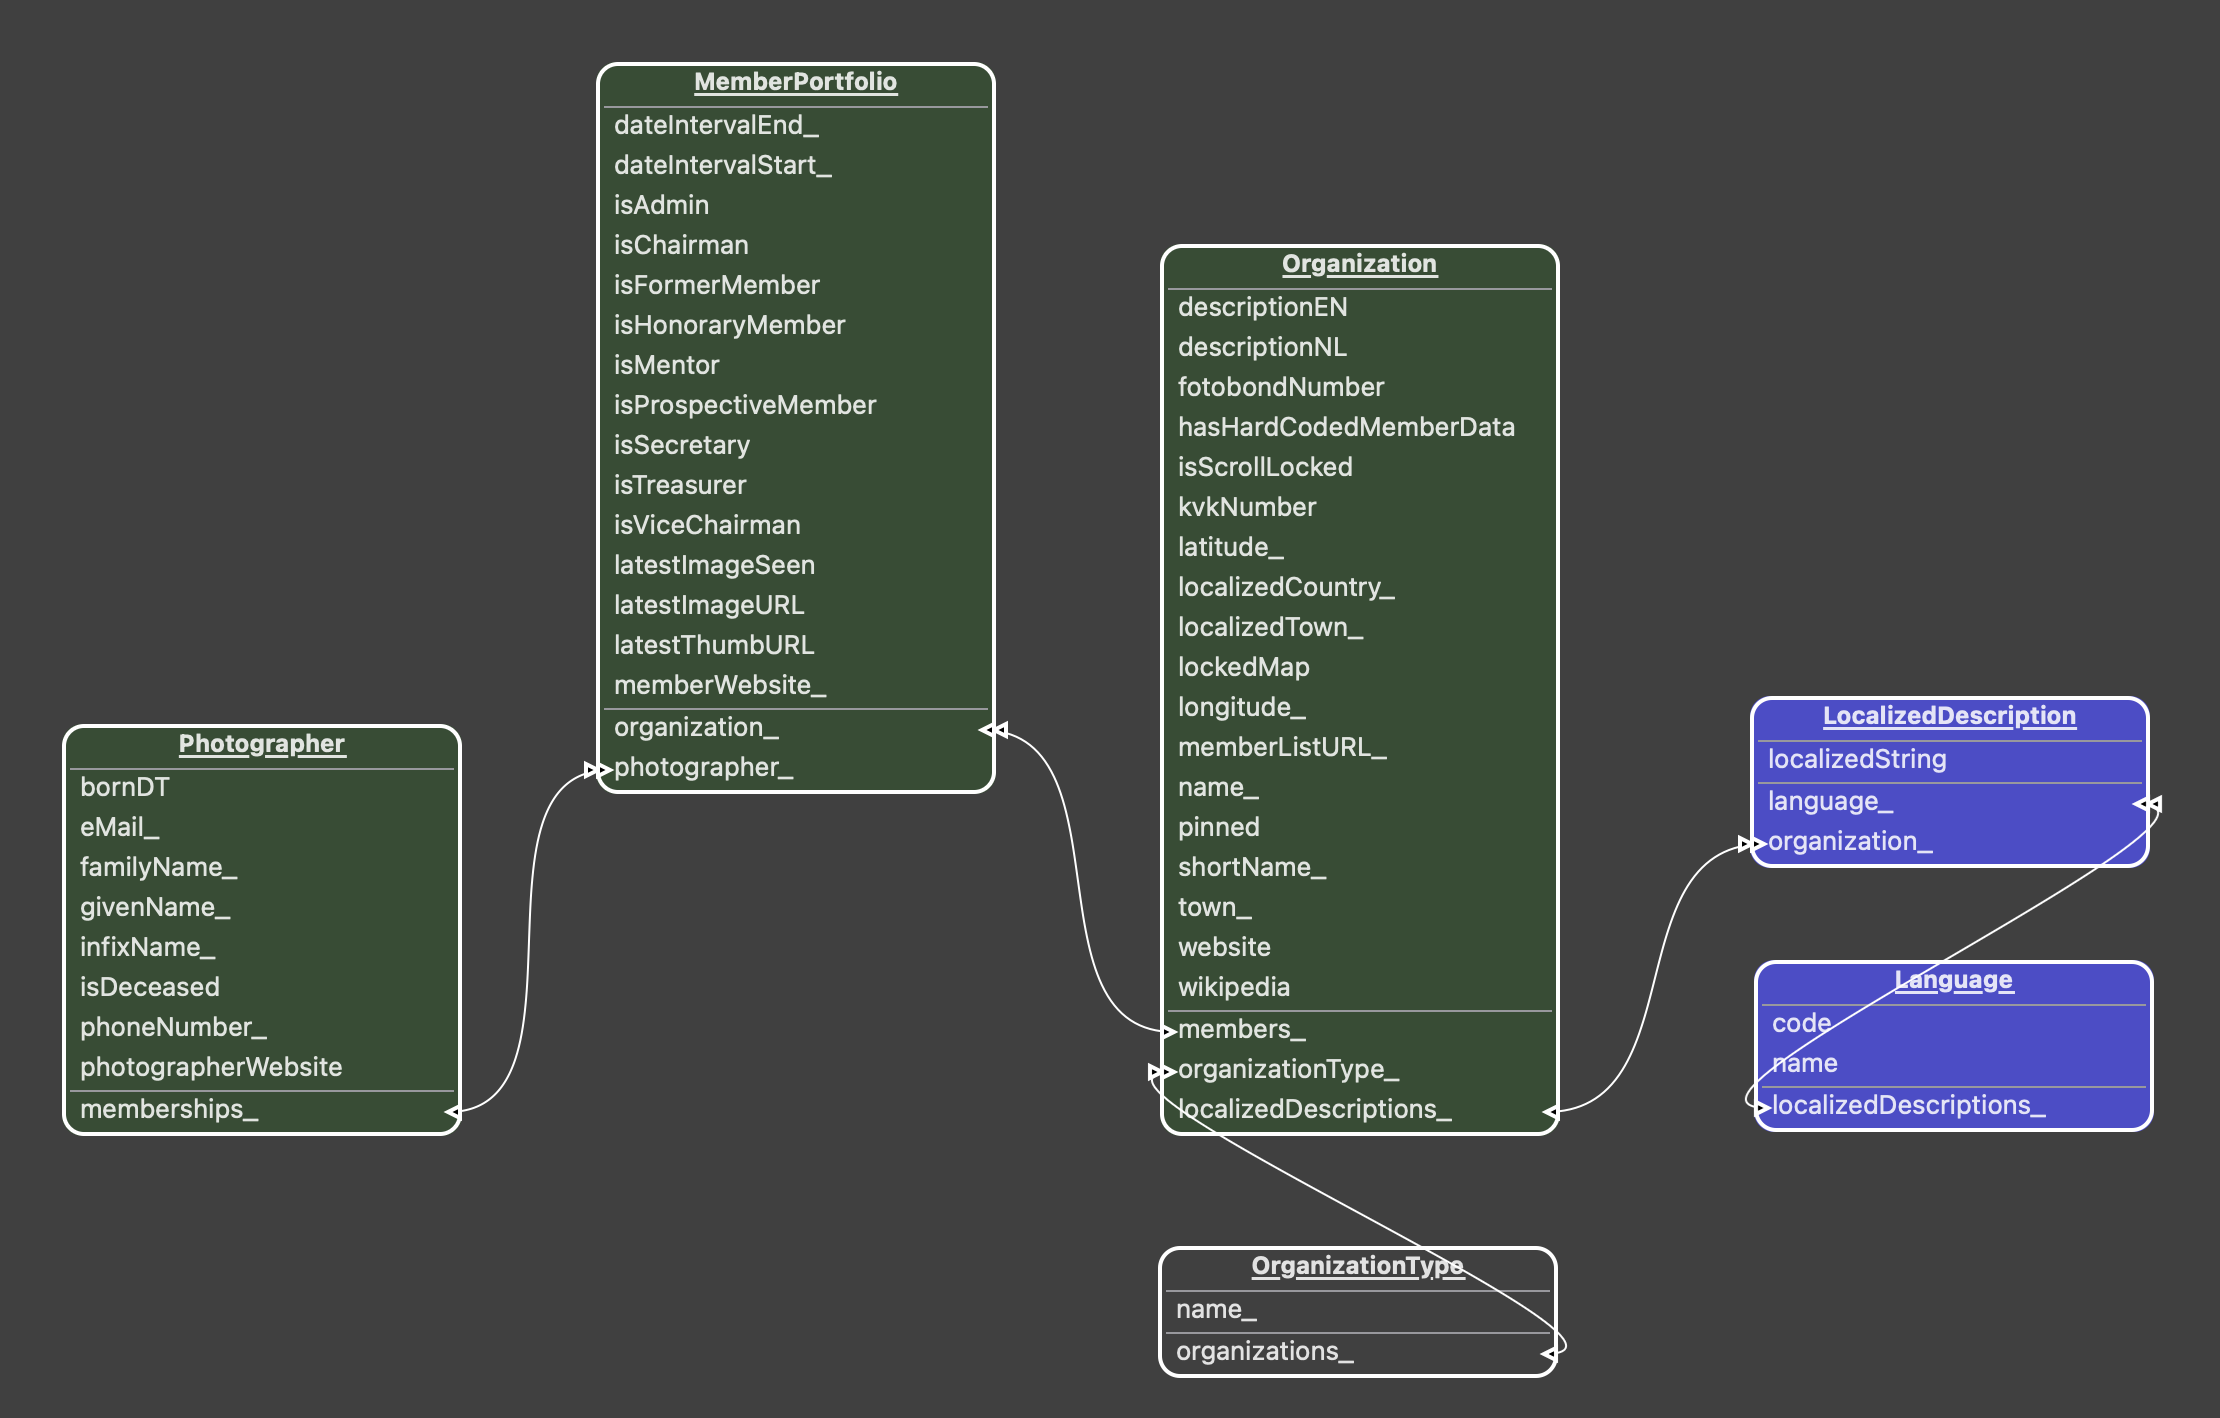
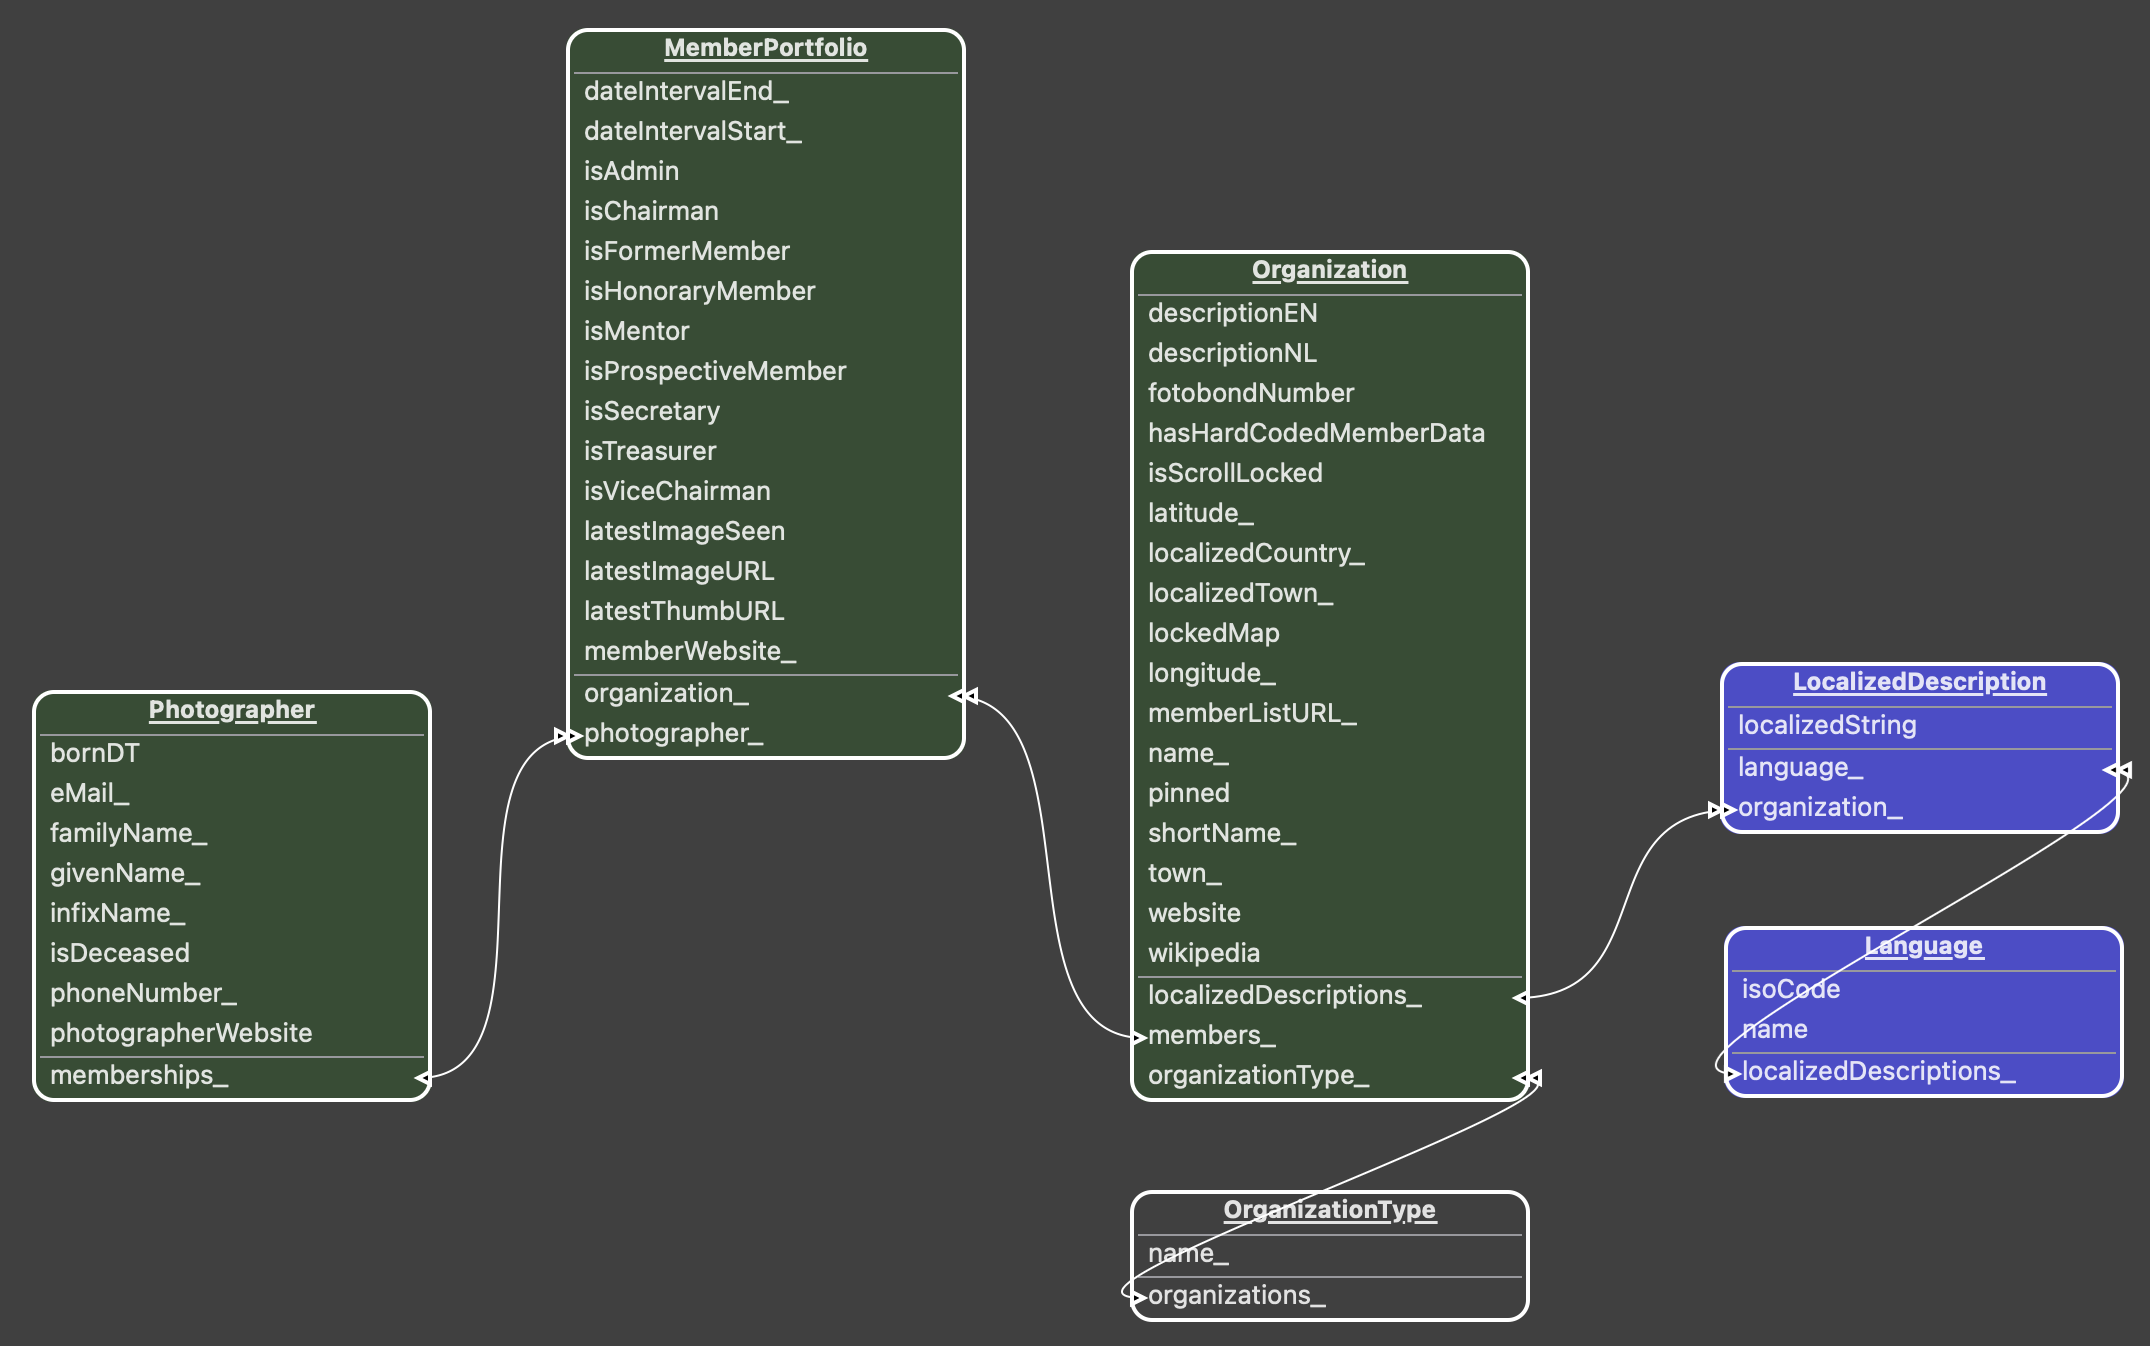
Fix: #301

diff --git a/Photo Club Hub/ViewModel/Organization.swift b/Photo Club Hub/ViewModel/Organization.swift
@@ -183,7 +183,7 @@ extension Organization {
                                  idPlus: OrganizationIdPlus,
                                  website: URL? = nil,
                                  wikipedia: URL? = nil,
-                                 fotobondNumber: Int16? = nil, kvkNumber: Int32? = nil,
+                                 fotobondNumber: Int16? = nil,
                                  coordinates: CLLocationCoordinate2D? = nil,
                                  pinned: Bool = false,
                                  localizedDescriptions: [JSON] = []
@@ -211,7 +211,7 @@ extension Organization {
             if update(bgContext: context, organizationTypeEnum: organizationTypeEum,
                       photoClub: organization, shortName: idPlus.nickname,
                       optionalFields: (website: website, wikipedia: wikipedia,
-                                       fotobondNumber: fotobondNumber, kvkNumber: kvkNumber),
+                                       fotobondNumber: fotobondNumber),
                       coordinates: coordinates,
                       pinned: pinned,
                       localizedDescriptions: localizedDescriptions) {
@@ -228,7 +228,7 @@ extension Organization {
             _ = update(bgContext: context, organizationTypeEnum: organizationTypeEum,
                        photoClub: organization, shortName: idPlus.nickname,
                        optionalFields: (website: website, wikipedia: wikipedia,
-                                        fotobondNumber: fotobondNumber, kvkNumber: kvkNumber),
+                                        fotobondNumber: fotobondNumber),
                        coordinates: coordinates,
                        pinned: pinned,
                        localizedDescriptions: localizedDescriptions)
@@ -244,7 +244,7 @@ extension Organization {
                                photoClub: Organization, shortName: String,
                                // swiftlint:disable:next large_tuple
                                optionalFields: (website: URL?, wikipedia: URL?,
-                                                fotobondNumber: Int16?, kvkNumber: Int32?),
+                                                fotobondNumber: Int16?),
                                coordinates: CLLocationCoordinate2D?,
                                pinned: Bool,
                                localizedDescriptions: [JSON] ) -> Bool {
@@ -273,10 +273,6 @@ extension Organization {
 
         if let fotobondNumber = optionalFields.fotobondNumber, photoClub.fotobondNumber != fotobondNumber {
             photoClub.fotobondNumber = fotobondNumber
-            modified = true }
-
-        if let kvkNumber = optionalFields.kvkNumber, photoClub.kvkNumber != kvkNumber {
-            photoClub.kvkNumber = kvkNumber
             modified = true }
 
         if let coordinates, photoClub.coordinates != coordinates {

diff --git a/Photo Club Hub/ViewModel/ListReaders/OrganizationList.swift b/Photo Club Hub/ViewModel/ListReaders/OrganizationList.swift
@@ -108,14 +108,12 @@ class OrganizationList {
                 let wikipedia = URL(string: jsonOrganization["wikipedia"].stringValue)
                 let localizedDescriptions = jsonOrganization["description"].arrayValue
                 let fotobondNumber = jsonOrganization["nlSpecific"]["fotobondNumber"].int16Value
-                let kvkNumber = jsonOrganization["nlSpecific"]["kvkNumber"].int32Value
                 _ = Organization.findCreateUpdate(context: bgContext,
                                                   organizationTypeEum: organizationTypeEnum,
                                                   idPlus: idPlus,
                                                   website: website,
                                                   wikipedia: wikipedia,
                                                   fotobondNumber: fotobondNumber, // int16
-                                                  kvkNumber: kvkNumber, // int32
                                                   coordinates: coordinates,
                                                   localizedDescriptions: localizedDescriptions)
             }

diff --git a/Extensions/PersistenceController.swift b/Extensions/PersistenceController.swift
@@ -68,7 +68,6 @@ struct PersistenceController {
                                                        ),
                                                        website: URL(string: "http://www.example.com/\(index)"),
                                                        fotobondNumber: Int16(index*1111),
-                                                       kvkNumber: Int32(100+index),
                                                        coordinates: CLLocationCoordinate2D( // spread around BeNeLux
                                                             latitude: 51.39184 + Double.random(in: -2.0 ... 2.0),
                                                             longitude: 5.46144 + Double.random(in: -2.0 ... 1.0)),

diff --git a/Photo Club Hub/Documentation/ReleaseNotes.md b/Photo Club Hub/Documentation/ReleaseNotes.md
@@ -4,6 +4,7 @@ Clubs and Museums screen
     * Removed member count for photo museums and clubs with no available member data
     * Show wikipedia URL for museums (clickable "W" icon if link is available). Data comes from JSON file.
     * Added some Dutch translations.
+    * Removed support for kvkNumber. It worked, but is Netherlands only, and not very relevant.
 Maintenance
     * Renamed PhotoClub table to Organization table (because it can now contain museums)
     * Replaced musea -> museums in English text.
